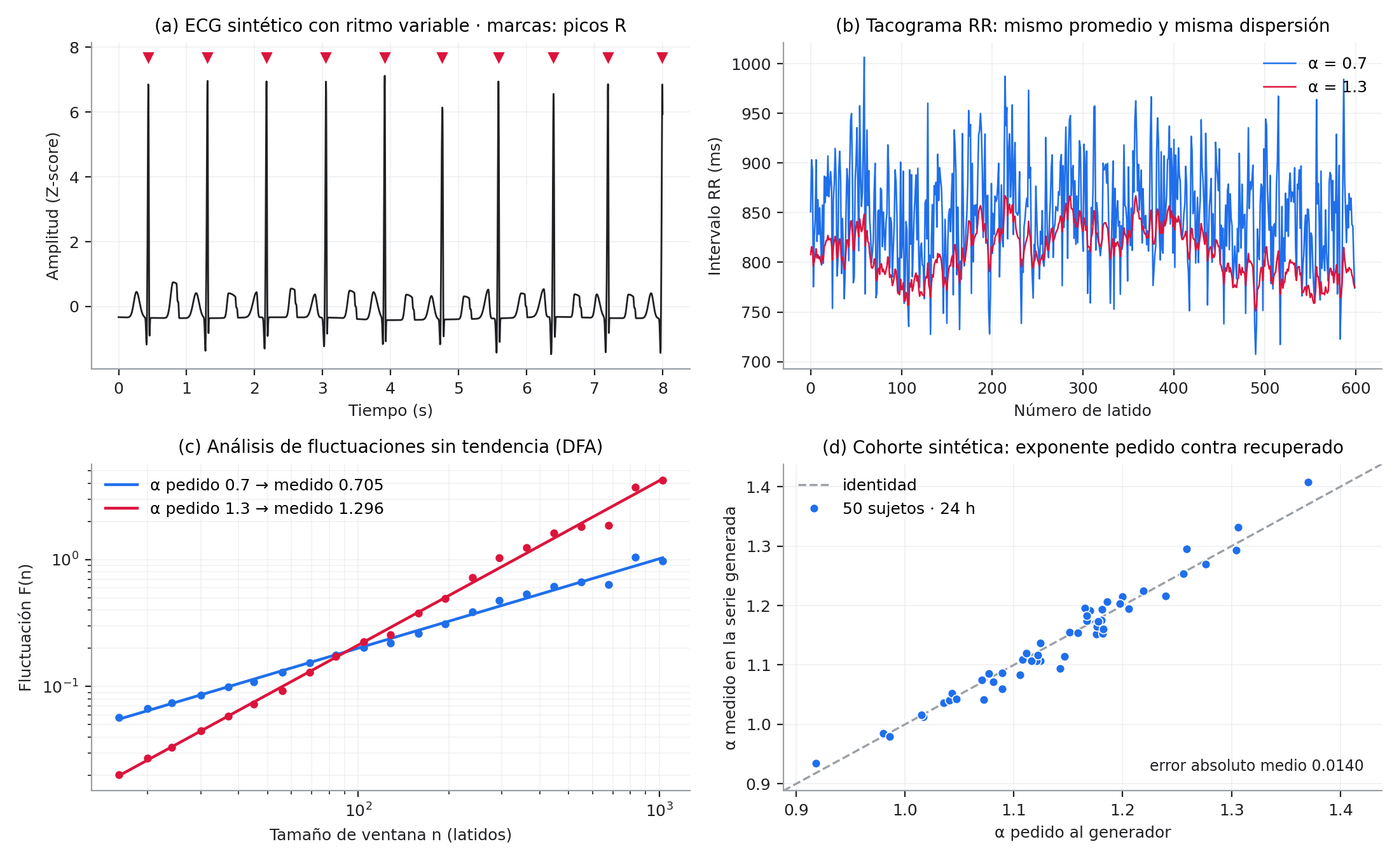
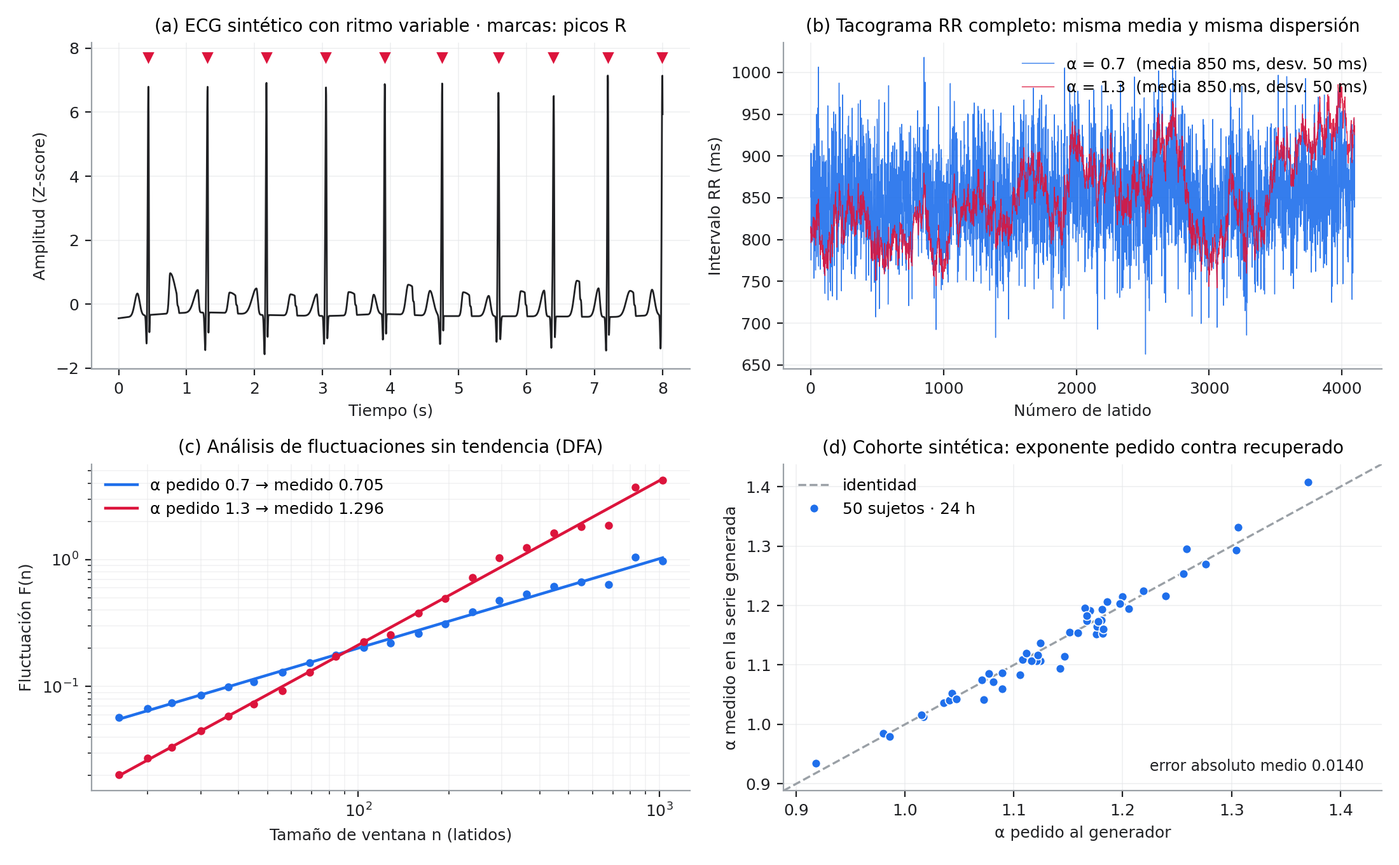
Corrige resultados contra las cifras recalculadas

diff --git a/09-resultados.tex b/09-resultados.tex
@@ -6,7 +6,7 @@
 
 La validación experimental se realizó sobre la MIT-BIH Arrhythmia Database \cite{moody2001impact}, disponible públicamente a través de PhysioNet. De los 48 registros que componen la base, se utilizó el registro 100, muestreado a 360 Hz sobre dos derivaciones, del cual se procesó el canal MLII.
 
-La extracción de latidos se apoyó en las anotaciones de referencia del propio registro. De las 2.274 anotaciones disponibles se seleccionaron exclusivamente aquellas etiquetadas como latido sinusal normal (símbolo \texttt{N}), descartando latidos ectópicos, artefactos y marcas de ritmo. Este filtrado produjo un conjunto de 2.237 latidos, tras descartar uno cuya ventana de extracción se salía del registro.
+La extracción de latidos se apoyó en las anotaciones de referencia del propio registro. De las 2.274 anotaciones disponibles se seleccionaron exclusivamente aquellas etiquetadas como latido sinusal normal (símbolo \texttt{N}), descartando latidos ectópicos, artefactos y marcas de ritmo. Este filtrado produjo un conjunto de 2.237 latidos de las 2.239 anotaciones normales, tras descartar dos: el último latido del registro, que el recorrido de las anotaciones no considera como precaución frente a los bordes, y uno cuya ventana de extracción se salía del registro.
 
 Cada latido se extrajo mediante una ventana \emph{asimétrica} respecto del pico R anotado: 250 ms antes y 500 ms después, es decir 270 muestras a 360 Hz, y se normalizó mediante puntuación Z, de modo que la comparación entre señal real y sintética fuese independiente de la ganancia del canal.
 
@@ -22,7 +22,7 @@ La función objetivo minimizada fue el error cuadrático medio (MSE) entre la se
 
 Las restricciones de amplitud se expresan como fracción del pico del latido y no como valores absolutos en milivoltios. Esta elección no es cosmética. Los latidos ingresan al ajuste normalizados por puntuación Z, de modo que un límite expresado en unidades de la señal cruda deja de tener significado una vez aplicada la normalización. La primera implementación de este trabajo cometió exactamente ese error, y la Subsección \ref{sec:residuo} documenta sus consecuencias y su corrección.
 
-El gradiente de la función objetivo se obtiene de forma analítica a partir de la expresión del modelo, en lugar de estimarse por diferencias finitas, y se entrega directamente al optimizador. La derivación fue verificada contra una aproximación numérica mediante \texttt{scipy.optimize.check\_grad}, con un error relativo máximo de $6{,}6\cdot10^{-6}$. Además de reducir el tiempo de ajuste por latido, esta verificación descarta que las diferencias entre configuraciones del modelo provengan de un gradiente mal estimado.
+El gradiente de la función objetivo se obtiene de forma analítica a partir de la expresión del modelo, en lugar de estimarse por diferencias finitas, y se entrega directamente al optimizador. La derivación fue verificada contra una aproximación numérica mediante \texttt{scipy.optimize.check\_grad}: sobre cuarenta latidos repartidos a lo largo del registro, evaluada en el punto de partida del optimizador, el error relativo no superó $8{,}9\cdot10^{-6}$. Además de reducir el tiempo de ajuste por latido, esta verificación descarta que las diferencias entre configuraciones del modelo provengan de un gradiente mal estimado.
 
 Conviene precisar la nomenclatura, dado que ambas magnitudes aparecen en la literatura del área: la función objetivo optimizada es el error cuadrático medio (MSE), mientras que la métrica reportada en esta sección es su raíz (RMSE), expresada en unidades de desviación estándar de la señal normalizada. La distinción está impuesta en el propio código: el ajuste persiste ambos valores por separado y la rutina de validación recalcula el RMSE desde las señales reconstruidas, sin reutilizar el valor de la función objetivo. Ese recálculo independiente es lo que permitió detectar, en la primera iteración, que la figura de validación rotulaba como RMSE una cantidad que era MSE.
 
@@ -62,13 +62,13 @@ Ventana de extracción & 356 ms centrada & 356 ms centrada & 750 ms asimétrica 
 Restricciones de amplitud & en mV & por fracción & por fracción \\ \hline
 Parámetros del modelo & 20 & 22 & 22 \\ \hline
 Correlación de Pearson & 0,9647 & 0,9986 & 0,9969 \\ \hline
-RMSE & 0,3985 & 0,0496 & 0,0779 \\ \hline
-Sesgo medio del residuo & $-0{,}1457$ & $-0{,}0000$ & $-0{,}0000$ \\ \hline
+RMSE & 0,3984 & 0,0496 & 0,0779 \\ \hline
+Sesgo medio del residuo (sintética $-$ real) & $+0{,}1457$ & $-0{,}0000$ & $-0{,}0000$ \\ \hline
 Parámetros saturados por latido & 11,8 de 20 & 1,8 de 22 & 0,83 de 22 \\ \hline
-Latidos con el centro de T fuera de la ventana & 1.637 de 2.238 & 1.637 de 2.238 & 0 de 2.237 \\ \hline
-Asimetría mediana del ancho de P & 7,63 & 7,63 & 1,23 \\ \hline
+Latidos con el centro de T fuera de la ventana & 0 de 2.238 & 1.637 de 2.238 & 0 de 2.237 \\ \hline
+Asimetría mediana del ancho de P & 1,00 & 7,63 & 1,23 \\ \hline
 \end{tabular}
-\caption{Contraste entre las tres iteraciones del modelo. Las columnas de RMSE no son comparables entre la segunda y la tercera, porque las ventanas abarcan cantidades distintas de señal; las filas de validez de parámetros sí lo son. Las tres son reproducibles con el mismo código, seleccionando la ventana y el conjunto de restricciones por línea de comandos.}
+\caption{Contraste entre las tres iteraciones del modelo. Las columnas de RMSE no son comparables entre la segunda y la tercera, porque las ventanas abarcan cantidades distintas de señal; las filas de validez de parámetros sí lo son. En la primera iteración, el centro de T y la asimetría de P no delatan el problema porque sus propias cotas los forzaban a valores aceptables: sus parámetros eran artefactos de las restricciones, no del recorte. La primera y la tercera se reproducen con el código actual por línea de comandos; la segunda se re-valida desde sus parámetros guardados.}
 \label{tab:iteraciones}
 \end{table}
 
@@ -76,22 +76,22 @@ La Figura \ref{fig:validacion} presenta la comparación entre un latido real y s
 
 \begin{figure}[H]
 \centering
-\includegraphics[width=0.85\textwidth]{fig/validacion_visual.png}
-\caption{Comparación entre un latido real del registro 100 (línea continua) y la señal sintética generada por el modelo paramétrico (línea discontinua). La línea punteada muestra el término de línea base ajustado y el panel inferior el residuo punto a punto.}
+\includegraphics[width=0.95\textwidth]{fig/validacion_visual_v2.png}
+\caption{Latido de mejor ajuste del registro 100 bajo la ventana asimétrica de 750 ms: latido 1854, con un RMSE de 0,0466, el mínimo del Cuadro \ref{tab:metricas}. La línea continua es el latido real, la discontinua el modelo ajustado, la punteada el término de línea base, y el panel inferior el residuo punto a punto. Los centros de las cinco ondas quedan dentro de la ventana; la rama descendente de la onda T, en cambio, no alcanza a volver a la línea base antes del borde derecho, que es la limitación que se discute en la Subsección \ref{sec:validez}.}
 \label{fig:validacion}
 \end{figure}
 
 \subsection{Análisis del error residual y corrección del modelo}\label{sec:residuo}
 
-La primera iteración del modelo, de veinte parámetros, alcanzó una correlación de Pearson media de 0,9647 y un RMSE medio de 0,3985. La lectura conjunta de ambas métricas exigía cautela: esa combinación no describe una reconstrucción de alta fidelidad en sentido estricto, sino un modelo que reproduce correctamente la \emph{forma} del ciclo P-QRS-T conservando una discrepancia de amplitud cercana a 0,4 desviaciones estándar de la señal normalizada. La correlación de Pearson es invariante ante transformaciones afines, de modo que un desplazamiento o un cambio de escala sistemáticos no la penalizan, mientras que sí penalizan el RMSE. Reportar únicamente la correlación habría sobreestimado el desempeño del generador.
+La primera iteración del modelo, de veinte parámetros, alcanzó una correlación de Pearson media de 0,9647 y un RMSE medio de 0,3984. La lectura conjunta de ambas métricas exigía cautela: esa combinación no describe una reconstrucción de alta fidelidad en sentido estricto, sino un modelo que reproduce correctamente la \emph{forma} del ciclo P-QRS-T conservando una discrepancia de amplitud cercana a 0,4 desviaciones estándar de la señal normalizada. La correlación de Pearson es invariante ante transformaciones afines, de modo que un desplazamiento o un cambio de escala sistemáticos no la penalizan, mientras que sí penalizan el RMSE. Reportar únicamente la correlación habría sobreestimado el desempeño del generador.
 
 El diagnóstico se apoyó en dos instrumentos distintos de la métrica agregada: el conteo de parámetros que convergen exactamente sobre un borde de su restricción de caja, y el sesgo medio del residuo. Un parámetro saturado indica que su valor quedó determinado por el límite y no por los datos; un sesgo no nulo indica una componente del error que el modelo no puede representar por construcción. Ambos instrumentos señalaron una causa concreta.
 
-En primer lugar, se detectó una saturación sistemática en el límite superior del parámetro de amplitud de la onda R. Dicho límite estaba fijado en 3,5 unidades, y 2.233 de los 2.238 latidos (99,8\%) convergieron exactamente sobre esa cota. La causa de fondo es una inconsistencia de unidades: los límites de amplitud fueron derivados de rangos fisiológicos expresados en milivoltios, mientras que los latidos ingresan al ajuste normalizados por puntuación Z, donde el pico R del registro 100 alcanza 5,24 unidades. La restricción de caja, concebida para evitar artefactos, impedía reconstruir la deflexión de mayor amplitud del complejo.
+En primer lugar, se detectó una saturación sistemática en el límite superior del parámetro de amplitud de la onda R. Dicho límite estaba fijado en 3,5 unidades, y 2.234 de los 2.238 latidos (99,8\%) convergieron exactamente sobre esa cota. La causa de fondo es una inconsistencia de unidades: los límites de amplitud fueron derivados de rangos fisiológicos expresados en milivoltios, mientras que los latidos ingresan al ajuste normalizados por puntuación Z, donde el pico R del registro 100 alcanza 5,24 unidades. La restricción de caja, concebida para evitar artefactos, impedía reconstruir la deflexión de mayor amplitud del complejo.
 
 La revisión completa del conteo de saturación mostró que el problema excedía a la onda R. En promedio, 11,8 de los 20 parámetros de cada latido quedaban fijados por un límite, y tres de ellos —el ancho ascendente de Q, el ancho descendente de S y el ancho descendente de T— saturaban en el 100\% de los latidos. El modelo no estaba siendo ajustado a los datos en más de la mitad de sus grados de libertad.
 
-En segundo lugar, se verificó un sesgo sistemático entre ambas señales. La diferencia media entre la señal real y la sintética fue de $-0{,}1457$ unidades normalizadas, atribuible a que el modelo de cinco Gaussianas carece de un término de línea base y retorna necesariamente a cero fuera de las deflexiones, mientras que la señal real presenta un desnivel en el segmento ST. Corregir por separado ese desplazamiento constante habría reducido el RMSE medio de 0,3985 a 0,3696, esto es, un 7,2\% del error total, lo que permitía concluir que el sesgo de línea base contribuía sin ser la causa principal del residuo. Esa conclusión resultó correcta: la causa principal era la inconsistencia de unidades en las restricciones de amplitud.
+En segundo lugar, se verificó un sesgo sistemático entre ambas señales. El residuo medio, señal sintética menos real, fue de $+0{,}1457$ unidades normalizadas, atribuible a que el modelo de cinco Gaussianas carece de un término de línea base y retorna necesariamente a cero fuera de las deflexiones, mientras que la señal real presenta un desnivel en el segmento ST. Corregir por separado ese desplazamiento constante habría reducido el RMSE medio de 0,3984 a 0,3696, esto es, un 7,2\% del error total, lo que permitía concluir que el sesgo de línea base contribuía sin ser la causa principal del residuo. Esa conclusión resultó correcta: la causa principal era la inconsistencia de unidades en las restricciones de amplitud.
 
 Se aplicaron ambas correcciones. El término de línea base se incorporó como dos parámetros adicionales del modelo, en lugar de restarse a posteriori, de modo que el optimizador lo ajusta simultáneamente con la morfología. Las restricciones de amplitud pasaron a expresarse como fracción del pico del latido. El Cuadro \ref{tab:ablacion} desagrega el aporte de cada corrección.
 
@@ -100,7 +100,7 @@ Se aplicaron ambas correcciones. El término de línea base se incorporó como d
 \begin{tabular}{|p{7.6cm}|c|c|}
 \hline
 \textbf{Configuración del modelo} & \textbf{Pearson} & \textbf{RMSE} \\ \hline
-Primera iteración: 20 parámetros, restricciones en unidades de señal cruda & 0,9647 & 0,3985 \\ \hline
+Primera iteración: 20 parámetros, restricciones en unidades de señal cruda & 0,9647 & 0,3984 \\ \hline
 Se incorpora el término de línea base (22 parámetros) & 0,9763 & 0,3052 \\ \hline
 Se corrigen las restricciones de amplitud, sin línea base (20 parámetros) & 0,9809 & 0,2285 \\ \hline
 Ambas correcciones (22 parámetros) & 0,9986 & 0,0496 \\ \hline
@@ -116,14 +116,14 @@ Tras ambas correcciones el sesgo del residuo es nulo dentro de la precisión de 
 \subsection{Efecto de la redefinición de la ventana}
 \label{sec:validez}
 
-La limitación identificada en la iteración anterior era el largo de la ventana, y su corrección constituye el resultado más claro de esta etapa. Con la ventana centrada de 356 ms, el pico de la onda T caía fuera del recorte en 1.637 de los 2.238 latidos, con una posición mediana equivalente a 243 ms más allá del borde, y la onda P ajustada presentaba una razón mediana de 7,63 entre sus anchos de subida y de bajada, con un máximo de 30. Una onda que sube siete veces más lento de lo que baja no es una onda P: es el resultado de ajustar una gaussiana contra un flanco parcial. Los parámetros de P y T de esa iteración eran, en consecuencia, artefactos del recorte y no descripciones morfológicas.
+La limitación identificada en la iteración anterior era el largo de la ventana, y su corrección constituye el resultado más claro de esta etapa. Con la ventana centrada de 356 ms, el pico de la onda T caía fuera del recorte en 1.637 de los 2.238 latidos, con una posición mediana 98 ms más allá del borde, y la onda P ajustada presentaba una razón mediana de 7,63 entre sus anchos de subida y de bajada, con un máximo de 30. Una onda que sube siete veces más lento de lo que baja no es una onda P: es el resultado de ajustar una gaussiana contra un flanco parcial. Los parámetros de P y T de esa iteración eran, en consecuencia, artefactos del recorte y no descripciones morfológicas.
 
-Con la ventana asimétrica de 750 ms, las cinco ondas caen dentro del recorte en los 2.237 latidos, y los centros ajustados medianos resultan $-159$ ms para P, $-24$ ms para Q, $+2$ ms para R, $+15$ ms para S y $+339$ ms para T, valores compatibles con la descripción clínica del complejo. La asimetría mediana del ancho de la onda P desciende de 7,63 a 1,23, y el promedio de parámetros determinados por una cota cae de 11,8 de 20 a 0,83 de 22.
+Con la ventana asimétrica de 750 ms, las cinco ondas caen dentro del recorte en los 2.237 latidos, y los centros ajustados medianos resultan $-159$ ms para P, $-24$ ms para Q, $+2$ ms para R, $+14$ ms para S y $+339$ ms para T, valores compatibles con la descripción clínica del complejo. La asimetría mediana del ancho de la onda P desciende de 7,63 a 1,23, y el promedio de parámetros determinados por una cota cae de 11,8 de 20 a 0,83 de 22.
 
 \begin{figure}[H]
 \centering
-\includegraphics[width=0.95\textwidth]{fig/validacion_visual_v2.png}
-\caption{Ajuste morfológico bajo la ventana asimétrica. La línea continua es el latido real, la discontinua el modelo ajustado, la punteada el término de línea base, y el panel inferior el residuo punto a punto. El complejo P-QRS-T completo queda dentro de la ventana y el residuo es ruido simétrico en torno a cero, sin estructura ni deriva.}
+\includegraphics[width=0.85\textwidth]{fig/validacion_visual.png}
+\caption{Latido de mejor ajuste de la segunda iteración, con la ventana centrada de 356 ms: latido 1798, RMSE de 0,0286. El recorte deja fuera el inicio de la onda P por la izquierda y la onda T por la derecha, de modo que el modelo ajusta sus gaussianas contra flancos incompletos. Su RMSE no es comparable con el de la Figura \ref{fig:validacion}, porque la ventana contiene menos de la mitad de la señal. Compárese con la Figura \ref{fig:validacion}, que muestra el mismo registro bajo la ventana asimétrica.}
 \label{fig:validacion_v2}
 \end{figure}
 
@@ -133,9 +133,9 @@ La saturación no desaparece por completo. Un parámetro concentra prácticament
 
 Se puso a prueba la hipótesis de que esa gaussiana estaba absorbiendo una deriva que la línea base afín no podía seguir a lo largo de 750 ms, agregando un término cuadrático de línea base como parámetro veintitrés, con el gradiente analítico extendido y verificado contra diferencias finitas. La hipótesis queda \emph{rechazada}: el RMSE mejora apenas un 2,3\%, de 0,0781 a 0,0763, y la saturación cae solo de 25 a 22 latidos de 40. Aflojar la cota produce un resultado análogo: con un tope de 300 ms el ajuste elige 232 ms y el error mejora un 2,7\%, y con un tope de 600 ms elige el mismo valor, de modo que es el dato y no la cota quien lo fija. Pero un ancho de 232 ms no describe una onda T, cuya duración total ronda los 160 ms: describe una deriva.
 
-Se puso a prueba también la opción de representar la onda T con \emph{dos} gaussianas en lugar de una, llevando el modelo a veintiséis parámetros, con los centros ordenados por rango para que las dos componentes no fuesen intercambiables y con el gradiente analítico correspondiente verificado. El resultado también es negativo, y por tres razones convergentes. El RMSE mejora un 3,6\%, de 0,0776 a 0,0748, mejora que cuatro parámetros adicionales garantizan casi por construcción en un modelo anidado. El criterio de información bayesiano, que penaliza el número de parámetros, empeora en 2,5 unidades, es decir favorece al modelo de veintidós. Y la saturación, que era el problema a resolver, \emph{aumenta}: el promedio de parámetros determinados por una cota sube de 0,68 a 1,62 por latido, y la rama descendente de la última gaussiana de T pasa de saturar en 26 a saturar en 34 latidos de 40. El modelo de veintiséis parámetros no describe mejor la onda T: está sobreparametrizado para los datos disponibles, y el optimizador empuja el exceso contra los bordes del dominio.
+Se puso a prueba también la opción de representar la onda T con \emph{dos} gaussianas en lugar de una, llevando el modelo a veintiséis parámetros, con los centros ordenados por rango para que las dos componentes no fuesen intercambiables y con el gradiente analítico correspondiente verificado. Sobre cuarenta latidos, el RMSE mejora un 6,8\%, de 0,0776 a 0,0724, y el criterio de información bayesiano, que penaliza el número de parámetros, favorece al modelo de veintiséis por 15,4 unidades, una diferencia que se considera decisiva. Por ajuste, la segunda gaussiana se justifica. Pero la saturación, que era el problema a resolver, \emph{aumenta}: el promedio de parámetros determinados por una cota sube de 0,68 a 1,50 por latido, y la rama descendente de la última gaussiana de T pasa de saturar en 26 a saturar en 33 latidos de 40. El modelo de veintiséis parámetros ajusta mejor la señal, pero lo consigue con más parámetros cuyo valor fija el borde del dominio y no los datos, que es precisamente la condición que el control de saturación de la Sección \ref{sec:mp} declara invalidante para la interpretación fisiológica de un parámetro.
 
-Con tres hipótesis puestas a prueba y rechazadas —el término cuadrático de línea base, el aflojamiento de la cota y la segunda gaussiana— la conclusión que sostiene la evidencia es que el residuo de la onda T no se corrige agregando parámetros a esta familia de funciones. La explicación remanente, visible en la Figura \ref{fig:validacion_v2}, es que la onda T de este registro presenta una meseta ancha y no una campana, y una suma de gaussianas asimétricas no representa un plateau con parsimonia. La limitación se declara como tal, ahora acotada por medición y no por conjetura: corresponde explorar otra familia de funciones para la repolarización, y no ampliar la actual.
+Ninguna de las tres hipótesis puestas a prueba —el término cuadrático de línea base, el aflojamiento de la cota y la segunda gaussiana— resuelve la saturación de la rama descendente de la onda T: las dos primeras apenas mejoran el error, y la tercera lo mejora a costa de aumentarla. La conclusión que sostiene la evidencia es, por lo tanto, más acotada que un rechazo: dentro de esta familia de funciones, la mejora de ajuste disponible se obtiene sacrificando la interpretabilidad de los parámetros, que es la propiedad que justifica un modelo paramétrico frente a uno de caja negra. Este trabajo conserva el modelo de veintidós parámetros por esa razón, y no porque el de veintiséis ajuste peor. La explicación remanente, visible en la Figura \ref{fig:validacion}, es que la onda T de este registro presenta una meseta ancha y no una campana, y una suma de gaussianas asimétricas no representa un plateau con parsimonia. La limitación se declara como tal, ahora acotada por medición y no por conjetura: corresponde explorar otra familia de funciones para la repolarización, y no ampliar la actual.
 
 Vale registrar un detalle metodológico de esa prueba. Un primer intento, realizado sin gradiente analítico, produjo un RMSE \emph{peor} con \emph{más} parámetros, lo cual es imposible en un modelo anidado y por lo tanto delataba falta de convergencia y no una propiedad del modelo. Sin ese chequeo de coherencia se habría concluido lo contrario de lo correcto.
 
@@ -150,32 +150,32 @@ real, se pregunta si posee la propiedad que se le pidió.
 
 El primer control consiste en comprobar que la relación
 $\alpha = (\beta+1)/2$ se cumple en la implementación. Sobre series de 32.768
-puntos y diez realizaciones por valor, el exponente medido coincide con el
-pedido dentro de 0,005 para todo el rango de $\alpha$ entre 0,5 y 1,5. Esto
-verifica el par generador-estimador de manera conjunta: un error en cualquiera
-de los dos aparecería como una discrepancia sistemática.
+puntos y doscientas realizaciones independientes por valor, el sesgo del
+exponente recuperado no supera 0,011 en valor absoluto para $\alpha$ entre 0,6
+y 1,4. Esto verifica el par generador-estimador de manera conjunta: un error en
+cualquiera de los dos aparecería como una discrepancia sistemática mayor.
 
 \subsubsection{Sesgo del estimador según el largo del registro}
 
 El Cuadro \ref{tab:sesgo} reporta el exponente recuperado en función del
 exponente pedido y del largo de la serie. Este cuadro no es un accesorio: es la
 condición para poder interpretar un exponente medido sobre datos reales. El
-sesgo es negativo, crece con $\alpha$ y decrece con el largo del registro, de
-modo que sin caracterizarlo no hay forma de distinguir un exponente
-fisiológico de un artefacto de un registro corto.
+sesgo es negativo, tiende a crecer con $\alpha$ y decrece con el largo del
+registro, de modo que sin caracterizarlo no hay forma de distinguir un
+exponente fisiológico de un artefacto de un registro corto.
 
 \begin{table}[H]
 \centering
 \begin{tabular}{|c|c|c|c|}
 \hline
 \textbf{$\alpha$ pedido} & \textbf{$N=512$} & \textbf{$N=4.096$} & \textbf{$N=32.768$} \\ \hline
-0,6 & $0{,}573 \pm 0{,}063$ & $0{,}595 \pm 0{,}029$ & $0{,}598 \pm 0{,}015$ \\ \hline
-0,8 & $0{,}758 \pm 0{,}075$ & $0{,}791 \pm 0{,}034$ & $0{,}796 \pm 0{,}019$ \\ \hline
-1,0 & $0{,}946 \pm 0{,}085$ & $0{,}987 \pm 0{,}037$ & $0{,}993 \pm 0{,}022$ \\ \hline
-1,2 & $1{,}135 \pm 0{,}094$ & $1{,}183 \pm 0{,}040$ & $1{,}190 \pm 0{,}023$ \\ \hline
-1,4 & $1{,}325 \pm 0{,}098$ & $1{,}378 \pm 0{,}045$ & $1{,}386 \pm 0{,}024$ \\ \hline
+0,6 & $0{,}592 \pm 0{,}073$ & $0{,}593 \pm 0{,}030$ & $0{,}597 \pm 0{,}018$ \\ \hline
+0,8 & $0{,}785 \pm 0{,}079$ & $0{,}792 \pm 0{,}037$ & $0{,}794 \pm 0{,}021$ \\ \hline
+1,0 & $0{,}974 \pm 0{,}093$ & $0{,}986 \pm 0{,}040$ & $0{,}995 \pm 0{,}020$ \\ \hline
+1,2 & $1{,}174 \pm 0{,}104$ & $1{,}184 \pm 0{,}044$ & $1{,}189 \pm 0{,}027$ \\ \hline
+1,4 & $1{,}366 \pm 0{,}105$ & $1{,}383 \pm 0{,}048$ & $1{,}391 \pm 0{,}028$ \\ \hline
 \end{tabular}
-\caption{Exponente recuperado de la serie generada, sobre veinte realizaciones por celda. El sesgo del estimador crece con el exponente y decrece con el largo del registro.}
+\caption{Exponente recuperado de la serie generada, como media $\pm$ desviación estándar sobre doscientas realizaciones independientes por celda; el error estándar del sesgo no supera 0,008. El sesgo del estimador es negativo, tiende a crecer con el exponente y decrece con el largo del registro.}
 \label{tab:sesgo}
 \end{table}
 
@@ -187,7 +187,18 @@ distribución normal, de modo que la cohorte tenga dispersión entre individuos 
 no un único exponente repetido. La correlación entre el exponente pedido y el
 recuperado es de 0,98, con un error absoluto medio de 0,014, y ningún intervalo
 requirió recorte por salirse del rango fisiológico. El exponente de corto
-alcance de la cohorte resultó $\alpha_1 = 1{,}17 \pm 0{,}09$.
+alcance de la cohorte resultó $\alpha_1 = 1{,}17 \pm 0{,}09$, unas tres
+centésimas por encima del exponente global recuperado, $1{,}14$. Esa diferencia
+no debe leerse como un cruce de pendiente: el generador es monofractal, produce
+un único exponente en todas las escalas, y el exceso de $\alpha_1$ es
+consistente con el sesgo positivo del estimador en ventanas de pocos latidos
+descrito en la Sección \ref{sec:mp}. Tampoco debe leerse como una validación
+frente al valor de 1,17 reportado para adultos sanos
+\cite{costa2017fragmentation}: el exponente que se le pidió a la cohorte se
+sorteó de una distribución centrada precisamente en ese valor. Reproducir el
+cruce entre $\alpha_1$ y $\alpha_2$ que se observa en sujetos sanos exigiría
+un generador con dos regímenes de escalamiento, y queda planteado como
+extensión.
 
 \begin{figure}[H]
 \centering

diff --git a/08-metodos.tex b/08-metodos.tex
@@ -79,7 +79,7 @@ La unidad de validación es el latido individual. Cada señal sintética se comp
 El procedimiento consta de cuatro etapas:
 
 \begin{enumerate}
-    \item \textbf{Selección de semillas.} Extracción de los latidos anotados como sinusales normales (símbolo \texttt{N}) del registro, descartando latidos ectópicos, artefactos y marcas de ritmo. Del registro 100 se obtienen así 2.237 latidos de las 2.239 anotaciones normales. Los dos restantes se descartan por motivos distintos: la primera y la última anotación del registro no se consideran, como precaución frente a los bordes, y un latido se excluye porque su ventana de extracción comienza antes del inicio de la señal.
+    \item \textbf{Selección de semillas.} Extracción de los latidos anotados como sinusales normales (símbolo \texttt{N}) del registro, descartando latidos ectópicos, artefactos y marcas de ritmo. Del registro 100 se obtienen así 2.237 latidos de las 2.239 anotaciones normales. Los dos restantes se descartan por motivos distintos: el último latido del registro, porque el recorrido de las anotaciones excluye la primera y la última como precaución frente a los bordes —y en este registro la primera es un marcador de ritmo, no un latido—, y un latido cuya ventana de extracción comienza antes del inicio de la señal.
     \item \textbf{Segmentación y normalización.} Ventana asimétrica respecto del pico R anotado, de 250 ms antes y 500 ms después, es decir 270 muestras a la frecuencia de muestreo de 360 Hz del registro. La asimetría se sigue de la fisiología del complejo P-QRS-T, y el efecto de haber reemplazado la ventana centrada que se empleó en una iteración anterior se cuantifica en la Subsección \ref{sec:validez}. Cada latido se normaliza mediante puntuación Z, de modo que las métricas resulten independientes de la ganancia del canal y comparables entre registros.
     \item \textbf{Ajuste.} Optimización independiente de los veintidós parámetros del modelo para cada latido, minimizando el error cuadrático medio mediante L-BFGS-B \cite{byrd1995limited} con restricciones de caja fisiológicas.
     \item \textbf{Evaluación.} Cálculo de las métricas sobre el par formado por el latido real y su reconstrucción sintética.
